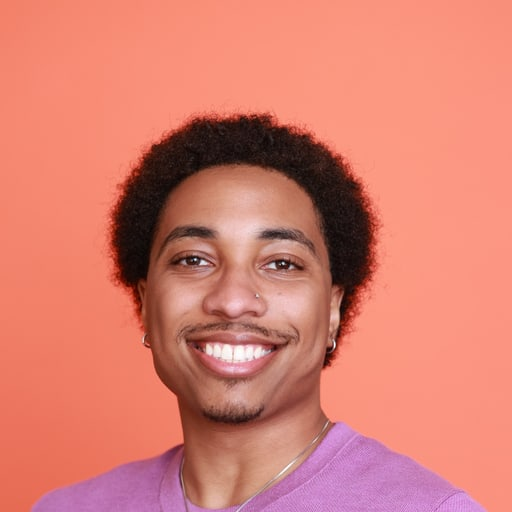
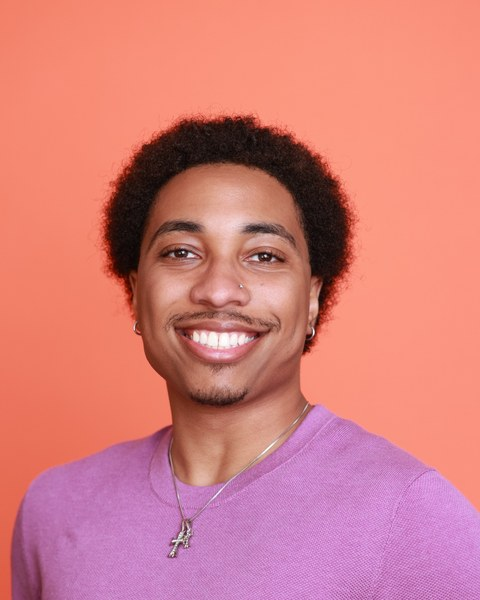
fix(pages): uncrop the photo, cap the coursework, fill the player
The profile photo was a tight 512x512 crop. Regenerate it at 4:5 keeping
2202x2752 of the 2432x2752 original, in the portrait box theFacebook
used, so nothing is cropped off at all.

Relevant coursework ran to three lines. Cut to the six courses that back
up the backend and infrastructure work above it, which measures two.

The projects rail was flex:1, so every pixel past 960 went to the sidebar
and came out as white space beside a 120px thumbnail. Make the rail the
fixed column and let the player take the rest: 1560x540 on a maximised
window, up from 640x360, with the height capped so the controls and
description stay above the fold.

The profile keeps its two-column shape below its natural width and the
window pans, rather than squeezing the right column away and clipping it.

diff --git a/components/window-content/retro-youtube.tsx b/components/window-content/retro-youtube.tsx
@@ -23,8 +23,10 @@ import { useState } from "react"
  * default non-theatre player is 640 wide, and the related rail beside it is
  * wide enough to read a title in two lines rather than five.
  */
+/** The floor for the player column. It grows past this to fill the window. */
 const PLAYER_W = 640
-const PLAYER_H = 360
+/** The rail is the fixed column now, wide enough for a 120px thumbnail and a
+ *  title in two lines. */
 const RAIL_W = 320
 const RAIL_THUMB_W = 120
 const RAIL_THUMB_H = 90
@@ -577,11 +579,23 @@ export default function RetroYoutube() {
 
       <div className="flex gap-3 p-3" style={{ alignItems: "flex-start" }}>
         {/* Main column */}
-        <div style={{ width: PLAYER_W, flexShrink: 0 }}>
+        <div style={{ flex: 1, minWidth: PLAYER_W }}>
           <h1 className="t15" style={{ fontWeight: "bold", marginBottom: 6 }}>{selected.title}</h1>
 
           {/* Flash-era player */}
-          <div data-player style={{ background: "#000", width: PLAYER_W, height: PLAYER_H, position: "relative" }}>
+          {/* Fills the column so nothing is left over on the right, with the
+              height capped so the controls, description and comments stay above
+              the fold on a maximised window. A player letterboxing a video is
+              normal; a player you have to scroll past is not. */}
+          <div
+            data-player
+            style={{
+              background: "#000",
+              width: "100%",
+              height: "clamp(320px, 54vh, 620px)",
+              position: "relative",
+            }}
+          >
             <div
               className="flex h-full items-center justify-center"
               style={{ color: "#666", textAlign: "center", padding: 20 }}
@@ -740,7 +754,7 @@ export default function RetroYoutube() {
         </div>
 
         {/* Related videos sidebar */}
-        <div style={{ flex: 1, minWidth: RAIL_W }}>
+        <div style={{ width: RAIL_W, flexShrink: 0 }}>
           <div style={{ border: "1px solid #CCC" }}>
             <div style={{ background: "#F0F0F0", borderBottom: "1px solid #CCC", padding: "3px 6px", fontWeight: "bold" }}>
               Related Videos

diff --git a/components/window-content/about-me.tsx b/components/window-content/about-me.tsx
@@ -133,7 +133,12 @@ export default function AboutMe() {
             </div>
 
             {/* Profile Content */}
-            <div className="p-4 flex gap-4">
+            {/* The profile is a two-column 2005 layout and does not become a
+                one-column one gracefully. Below its natural width it keeps its
+                shape and the window scrolls, which is what a browser of the
+                period did, rather than squeezing the right column to nothing
+                and clipping it. */}
+            <div className="p-4 flex gap-4 min-w-[820px]">
               {/* Left Column */}
               <div className="w-[300px] space-y-4">
                 {/* Picture Section */}
@@ -143,9 +148,9 @@ export default function AboutMe() {
                     <img
                       src="/images/blob/profile-headshot.jpeg"
                       alt="Profile"
-                      // The headshot is square, and a 120x150 box was cropping
-                      // the sides off it rather than showing the whole crop.
-                      className="h-[150px] w-[150px] object-cover"
+                      // theFacebook's photo box was portrait. The source is 4:5
+                      // and so is this, so nothing is cropped off at all.
+                      className="h-[190px] w-[152px] object-cover"
                     />
                   </div>
                 </div>

diff --git a/components/window-content/resume.tsx b/components/window-content/resume.tsx
@@ -1726,10 +1726,12 @@ export default function Resume() {
                 <em>Bachelor of Science in Computer Science, Minor in Mathematics</em>
                 <span>Expected May 2027</span>
               </p>
+              {/* Two lines. A resume that spills onto a third looks like it was
+                  never proofread, so the list is cut to the courses that back
+                  up the backend and infrastructure work above it. */}
               <p>
-                <strong>Relevant Coursework:</strong> Data Structures & Algorithms, Cloud Computing, Database Management,
-                Computer Networking, Data Warehousing, Systems Analysis & Design, Object-Oriented Programming, Computer
-                Architecture, Web Development
+                <strong>Relevant Coursework:</strong> Data Structures & Algorithms, Computer Architecture, Computer
+                Networking, Database Management, Cloud Computing, Object-Oriented Programming
               </p>
             </div>
           </div>
